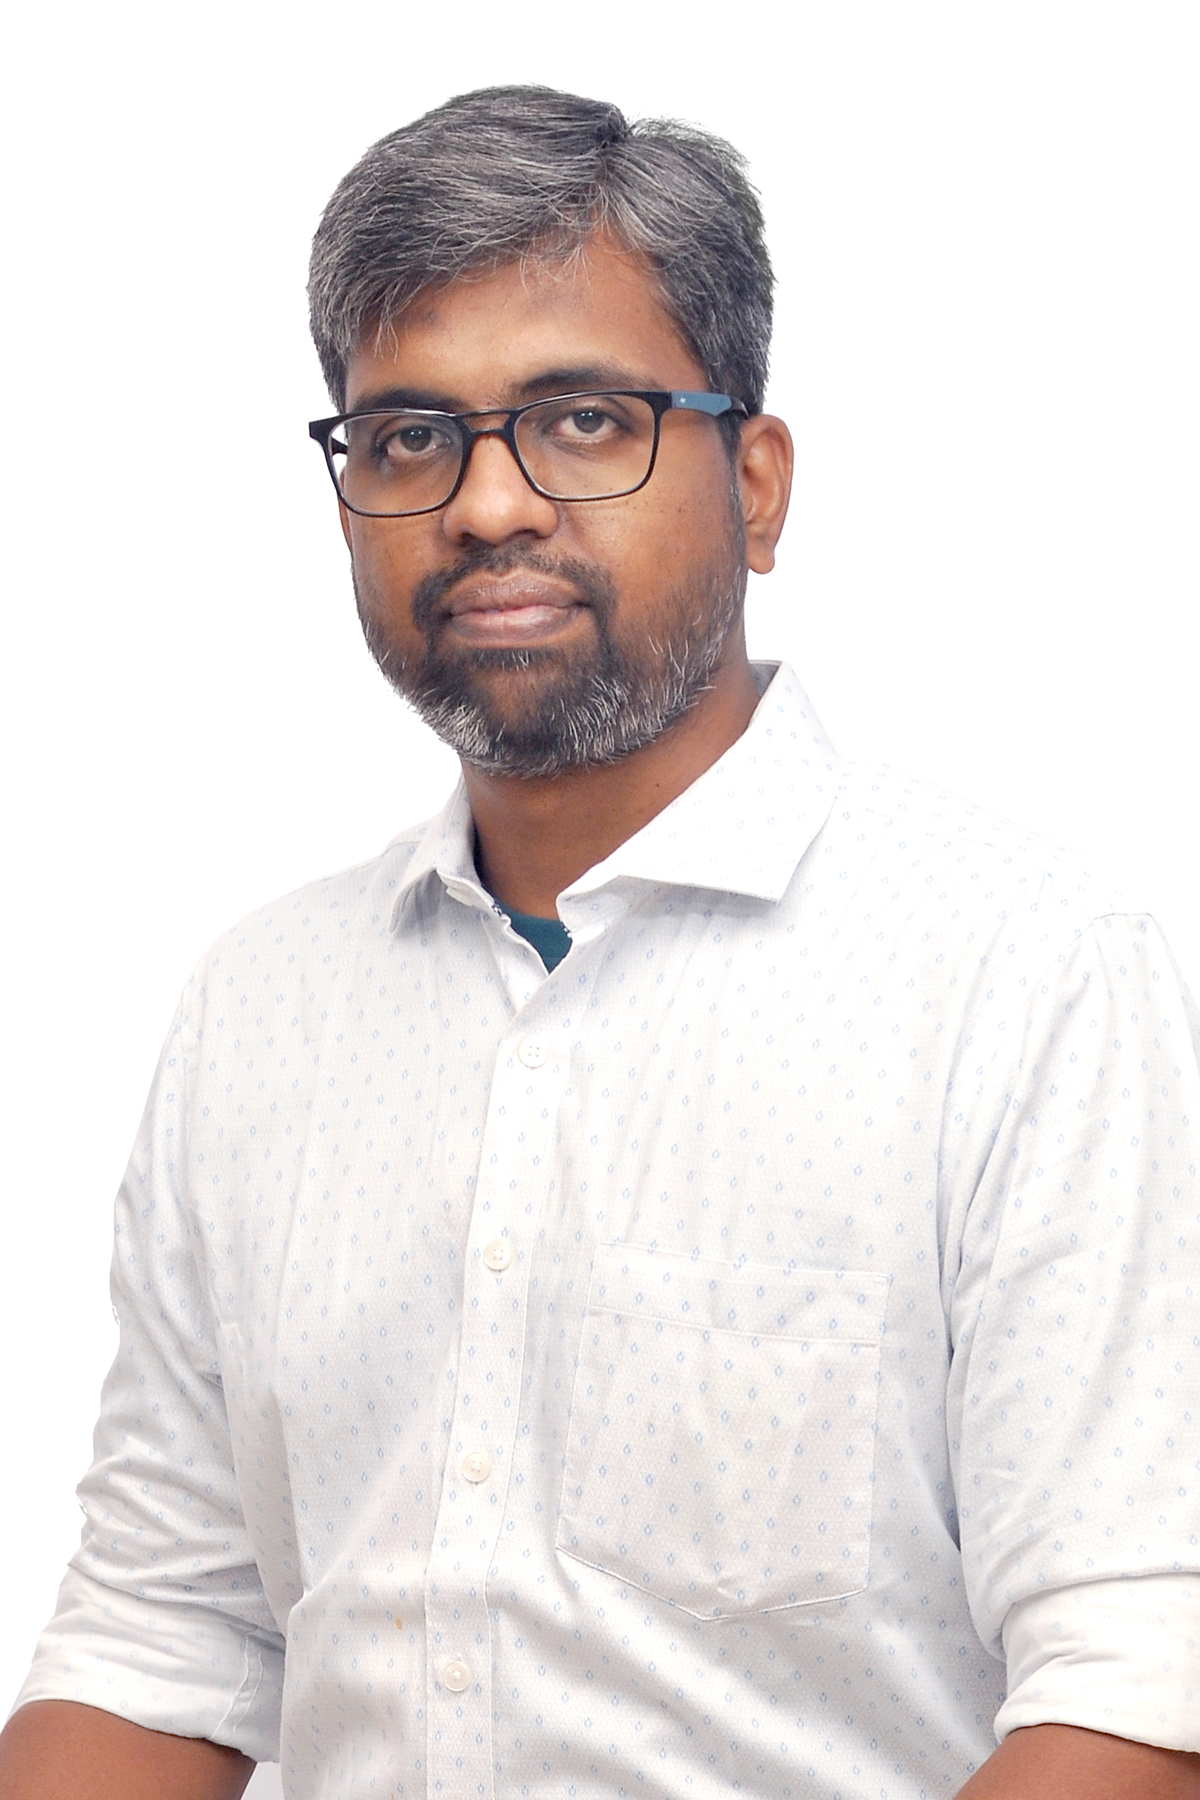
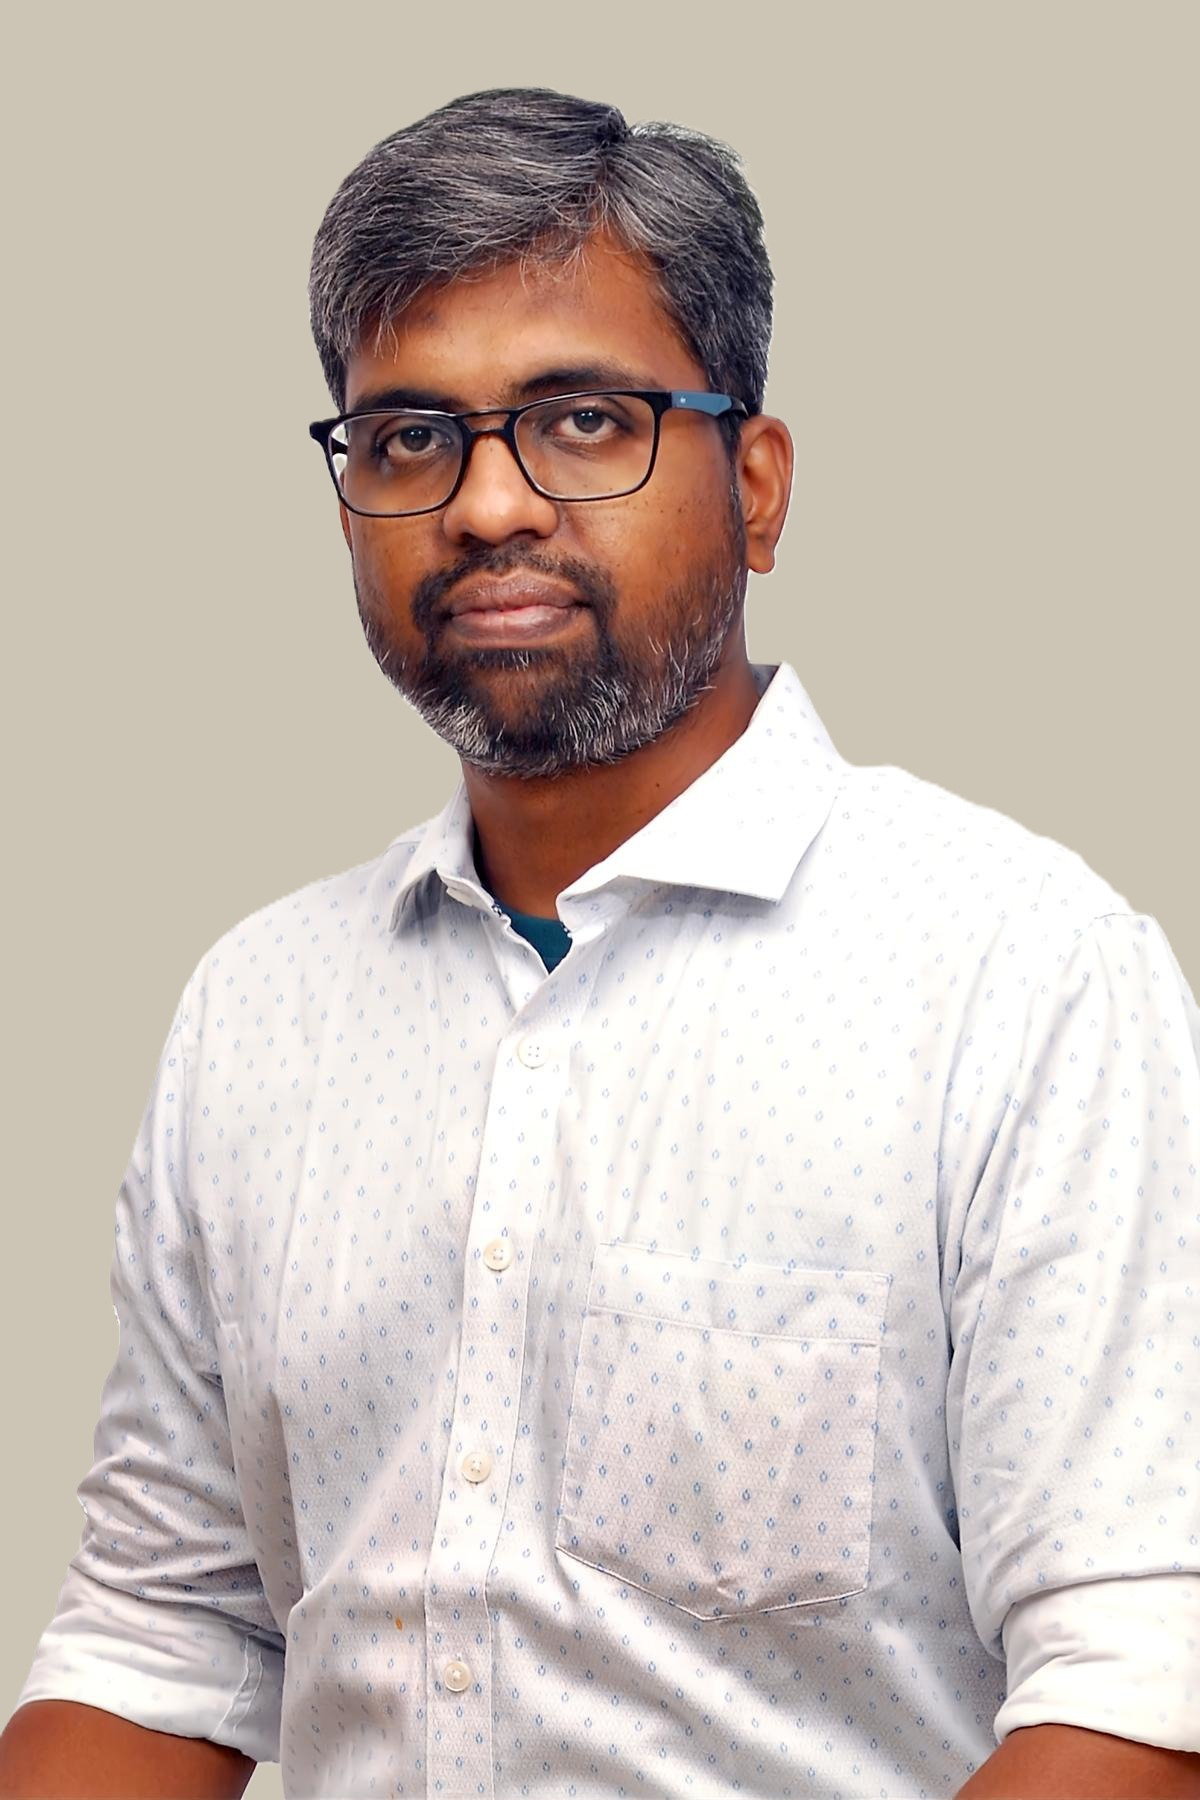
Image clarify and new pdf file
Image clarify and new pdf file

diff --git a/index.html b/index.html
@@ -176,7 +176,7 @@
     background:var(--panel);
     overflow:hidden;
   }
-  .portrait-frame img{width:100%;height:100%;object-fit:cover;object-position:center 18%;filter:grayscale(10%) contrast(1.02);}
+  .portrait-frame img{width:100%;height:100%;object-position:center 18%;image-rendering:auto;}
   .portrait-frame::before,.portrait-frame::after{
     content:"";position:absolute;width:14px;height:14px;border-color:var(--gold);border-style:solid;z-index:2;
   }
@@ -199,7 +199,7 @@
   .seal-text strong{display:block;font-size:20px;font-family:'Roboto Slab',serif;letter-spacing:0;color:var(--text);margin-bottom:2px;}
 
   /* ---------- Stat strip ---------- */
-  .stat-strip{display:grid;grid-template-columns:repeat(4,1fr);gap:1px;background:var(--line);border-top:1px solid var(--line);border-bottom:1px solid var(--line);}
+  .stat-strip{display:grid;grid-template-columns:repeat(5,1fr);gap:1px;background:var(--line);border-top:1px solid var(--line);border-bottom:1px solid var(--line);}
   .stat{background:var(--panel);padding:26px 24px;text-align:left;}
   .stat .num{font-family:'Roboto Slab',serif;font-size:30px;color:var(--gold);}
   .stat .lbl{font-family:'IBM Plex Mono',monospace;font-size:11.5px;color:var(--muted);letter-spacing:0.06em;text-transform:uppercase;margin-top:6px;}
@@ -430,7 +430,7 @@
   <section class="hero">
     <div class="wrap hero-grid">
       <div>
-        <div class="eyebrow">Program &amp; Security Delivery Leadership</div>
+        <div class="eyebrow">Technology Programme &amp; PMO Leadership</div>
         <h1>Mohammadrafi&nbsp;B</h1>
         <p class="role-line">Technology Programme Leader and PMO Head with 21 years of experience governing complex global programmes across banking, cybersecurity and enterprise technology — driving delivery, stakeholder alignment, risk management and business outcomes.</p>
         <div class="contact-row">
@@ -443,7 +443,7 @@
       </div>
       <div class="portrait-block">
         <div class="portrait-frame">
-          <img src="Images/MyPhoto-New.JPG" alt="Mohammadrafi B">
+          <img src="Images/MyPhoto-New-2026.png" alt="Mohammadrafi B">
         </div>
         <!-- <div class="seal">
           <div class="seal-text"><strong>21</strong>Years&nbsp;IT<br>CSM · PMO</div>
@@ -455,9 +455,10 @@
   <!-- STAT STRIP -->
   <div class="stat-strip">
     <div class="stat"><div class="num mono">21+</div><div class="lbl">Years in IT delivery &amp; security</div></div>
+    <div class="stat"><div class="num mono">4.5 → 47</div><div class="lbl">Team scaled via cross-selling</div></div>
     <div class="stat"><div class="num mono">$1.5M</div><div class="lbl">Banking security programme led</div></div>
     <div class="stat"><div class="num mono">$3M</div><div class="lbl">Strategic account, ~6 years</div></div>
-    <div class="stat"><div class="num mono">4.5 → 47</div><div class="lbl">Team scaled via cross-selling</div></div>
+    <div class="stat"><div class="num mono">4.5/5</div><div class="lbl">Average Customer Satisfaction Index</div></div>
   </div>
 
   <!-- SNAPSHOT -->
@@ -528,7 +529,8 @@
             <li>Held <b>Director/Head of PMO, Account Manager, TAM, Scrum Master, Support Manager </b> and Technical Lead roles</li>
             <li>Scaled a delivery organization from <b>4.5 to 47 members</b> through service expansion and cross-selling</li>
             <li>Oversaw a <b>USD 3M strategic account</b> for approximately six years, and led a <b>USD 1.5M banking security programme</b> for one of India's largest banks</li>
-            <li>Managed <b>10+ Account Managers</b> across Singapore, Malaysia, Thailand, Indonesia, Vietnam, Hong Kong, China, India, Australia, UK and UAE</li>
+            <li>Managed <b>10+ Technical Account Managers across APAC, the UK, India and the UAE</b> — including strategic security accounts spanning Singapore, Korea, Vietnam, Indonesia, Thailand and the UK</li>
+            <li>Maintained an average <b>Customer Satisfaction Index (CSI) of 4.5/5</b> across managed accounts</li>
             <li><b>Certified Scrum Master (CSM)</b>, Scrum Alliance — ran every Scrum ritual and agile ceremony</li>
             <li>Built a <b>cost-effective resource onboarding model</b>, developing junior talent and validating capability through targeted customer POCs</li>
             <li>Served as <b>audit process owner</b> internally and externally; mentored and onboarded new hires</li>
@@ -625,7 +627,7 @@
         </div></div>
 
         <div class="ledger-entry"><div class="entry-inner">
-          <div class="ref">Company: Own</div>
+          <div class="ref">Company: Independent</div>
           <div class="entry-top">
             <h3 class="entry-title">Corporate Technical Trainer / Freelance Consultant</h3>
             <div class="entry-dates">Jan 2022 — Nov 2022</div>
@@ -878,7 +880,7 @@
           <a class="chip" href="https://www.linkedin.com/in/mohammadrafi-bhajisahib/" target="_blank" rel="noopener">LinkedIn Profile</a>
         </div>
       </div>
-      <div class="updated mono">Last updated 13-Aug-2026</div>
+      <div class="updated mono">Last updated 14-Aug-2026</div>
     </div>
   </footer>
 
